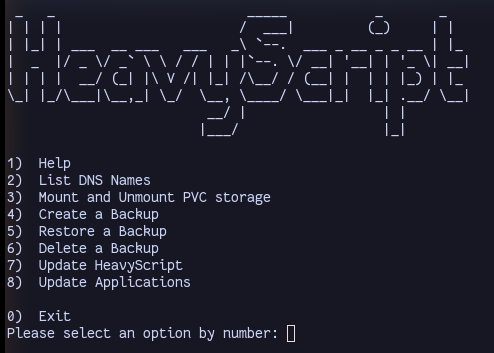
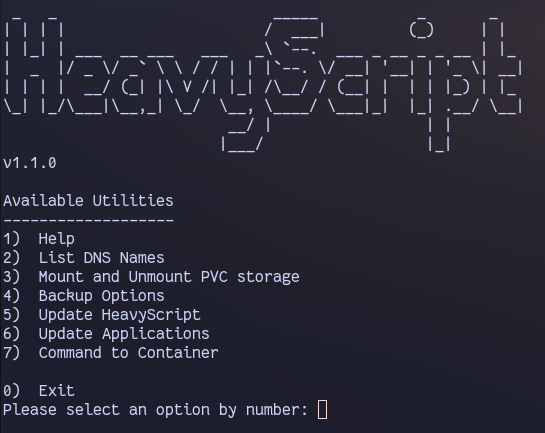
update scripts

Changed region(s): [[0.0, 0.0, 1.0, 1.0]]

diff --git a/docs/scripts/heavyscript/Update_Applications.md b/docs/scripts/heavyscript/Update_Applications.md
@@ -1,18 +1,21 @@
 ## Flag Table
 
 
-| Flag 	| Example                	| Parameter       	| Description                                                                                                                                                                                                                	|
-|------	|------------------------	|-----------------	|----------------------------------------------------------------------------------------------------------------------------------------------------------------------------------------------------------------------------	|
-| -U   	| -U <br>-U 5            	| None or Integer 	| Update applications, ignoring major version changes<br>_Optionally, you can supply a number after the argument to update multiple applications at once_                                                                    	|
-| -u   	| -u<br>-u 5             	| None or Integer 	| Update applications, do NOT update if there was a major version change<br>_Optionally, you can supply a number after the argument to update multiple applications at once_                                                 	|
-| -b   	| -b 14                  	| Integer         	| Backup `ix-appliactions` dataset<br>_Creates backups up to the number you've chosen_                                                                                                                                       	|
-| -i   	| -i nextcloud -i sonarr 	| String          	| Applications listed will be ignored during updating<br>_List one application after another as shown in the example_                                                                                                        	|
-| -r   	| -r                     	| None            	| Monitors applications after they update<br>If the app does not become "ACTIVE" after either:<br>The custom Timeout, or Default Timeout,<br>rollback the application.                                                       	|
-| -v   	| -v                     	| None            	| Verbose Output<br>_Look at the bottom of this page for an example_                                                                                                                                                         	|
-| -S   	| -S                     	| None            	| Shutdown the application prior to updating it                                                                                                                                                                              	|
-| -t   	| -t 150                 	| Integer         	| Set a custom timeout to be used with either:<br>`-m` <br>_Time the script will wait for application to be "STOPPED"_<br>or<br>`-(u\|U)` <br>_Time the script will wait for application to be either "STOPPED" or "ACTIVE"_ 	|
-| -s   	| -s                     	| None            	| Sync Catalogs prior to updating                                                                                                                                                                                            	|
-| -p   	| -p                     	| None            	| Prune old/unused docker images                                                                                                                                                                                             	|
+## Update Arguments
+| Flag          | Example                | Parameter        | Description                                                                                                                                                                |
+|---------------|------------------------|------------------|----------------------------------------------------------------------------------------------------------------------------------------------------------------------------|
+| -U            | -U <br>-U 5            | Optional Integer | Update applications, ignoring major version changes<br>_Optionally, you can supply a number after the argument to update multiple applications at once_                    |
+| -u            | -u<br>-u 5             | Optional Integer | Update applications, do NOT update if there was a major version change<br>_Optionally, you can supply a number after the argument to update multiple applications at once_ |
+| -b            | -b 14                  | Integer          | Snapshot ix-applications dataset<br>_Creates backups UP TO the number you've chosen_                                                                                       |
+| -i            | -i nextcloud -i sonarr | String           | Applications listed will be ignored during updating<br>_List one application after another as shown in the example_                                                        |
+| -r            | -r                     |                  | Monitors applications after they update<br>If the app does not become "ACTIVE" after the timeout, rollback the application.                                                |
+| -v            | -v                     |                  | Verbose Output<br>_Look at the bottom of this page for an example_                                                                                                         |
+| -S            | -S                     |                  | Shutdown the application prior to updating it                                                                                                                              |
+| -t            | -t 400                 | Integer          | Time in seconds that HeavyScript will wait for an application to no longer be deploying before declaring failure<br>Default: 500                                           |
+| -s            | -s                     |                  | Sync Catalogs prior to updating                                                                                                                                            |
+| -p            | -p                     |                  | Prune unused docker images                                                                                                                                                 |
+| --ignore-img  | --ignore-img           |                  | Ignore container image updates                                                                                                                                             |
+
 
 <br >
 <br >
@@ -212,3 +215,12 @@ This just syncs the catalog prior to updating
 
 Prunes Old/Unused docker images
 > If this is not done regularly, you can waste a lot of space with old images
+
+<br >
+<br >
+
+### Ignore Image
+
+Ignore container image updates
+> This is helpful for the `launch docker image` button, and Truecharts `Custom-app`, since those do not receive a version change when your application has an update available. 
+

diff --git a/docs/scripts/heavyscript/utilities.md b/docs/scripts/heavyscript/utilities.md
@@ -24,12 +24,11 @@ All of the options do just what you would expect
 1. Opens the help menu, so you can see all of the options for the script
 2. Lists all of your internal DNS names and their ports
 3. Opens the Mount and Unmount feature, so you can mount your volumes
-4. Creates a `ix-applications` backup
-5. Opens the menu to restore your `ix-applications` dataset to a previous version
-6. Opens the menu to delete an `ix-applications` backup
-7. Updates HeavyScript to the latest github version
-8. Opens a menu to create, then run a HeavyScript update
-
+4. Opens the Backup Menu
+> ix-application backups
+5. Updates HeavyScript to the latest github release
+6. Opens a menu to create, then run a HeavyScript update
+7. List all of your applications, so you can open a shell or send a command to the container/pod
 
 <br >
 <br >
@@ -160,7 +159,7 @@ bash heavy_script.sh
 
 ## Updating Applications
 
-This is something I am very proud of, it allows you to create a `bash heavy_script.sh` update with interactive options
+Allows you to create a `bash heavy_script.sh` update with interactive options
 
 <br >
 
@@ -194,3 +193,35 @@ Using the menu
 ```
 bash heavy_script.sh 
 ```
+
+
+<br >
+<br >
+
+## Command to Container
+
+Allows you to easily open a menu to send a command to one of your containers/pods
+
+<br >
+
+The first Menu:
+
+![!Update: Overview](images/cmd1.png)
+> Type the number associated with the option you want
+
+<br >
+
+If multiple containers are available for that application, it will ask which container you would like
+
+![!Update: Overview](images/cmd2.png)
+> Type the number associated with the option you want
+
+<br >
+
+![!Update: Overview](images/cmd3.png)
+> It will now show your App selection and container selection
+
+<br >
+
+![!Update: Overview](images/cmd4.png)
+> After choosing option 2, you will be in the containers shell, exit this shell by typing `exit` then pressing `enter`

diff --git a/docs/scripts/cmd_to_container.md b/docs/scripts/cmd_to_container.md
@@ -1,4 +1,4 @@
-# Command to Container
+# Command to Container Cron Job
 
 ## Purpose
 
